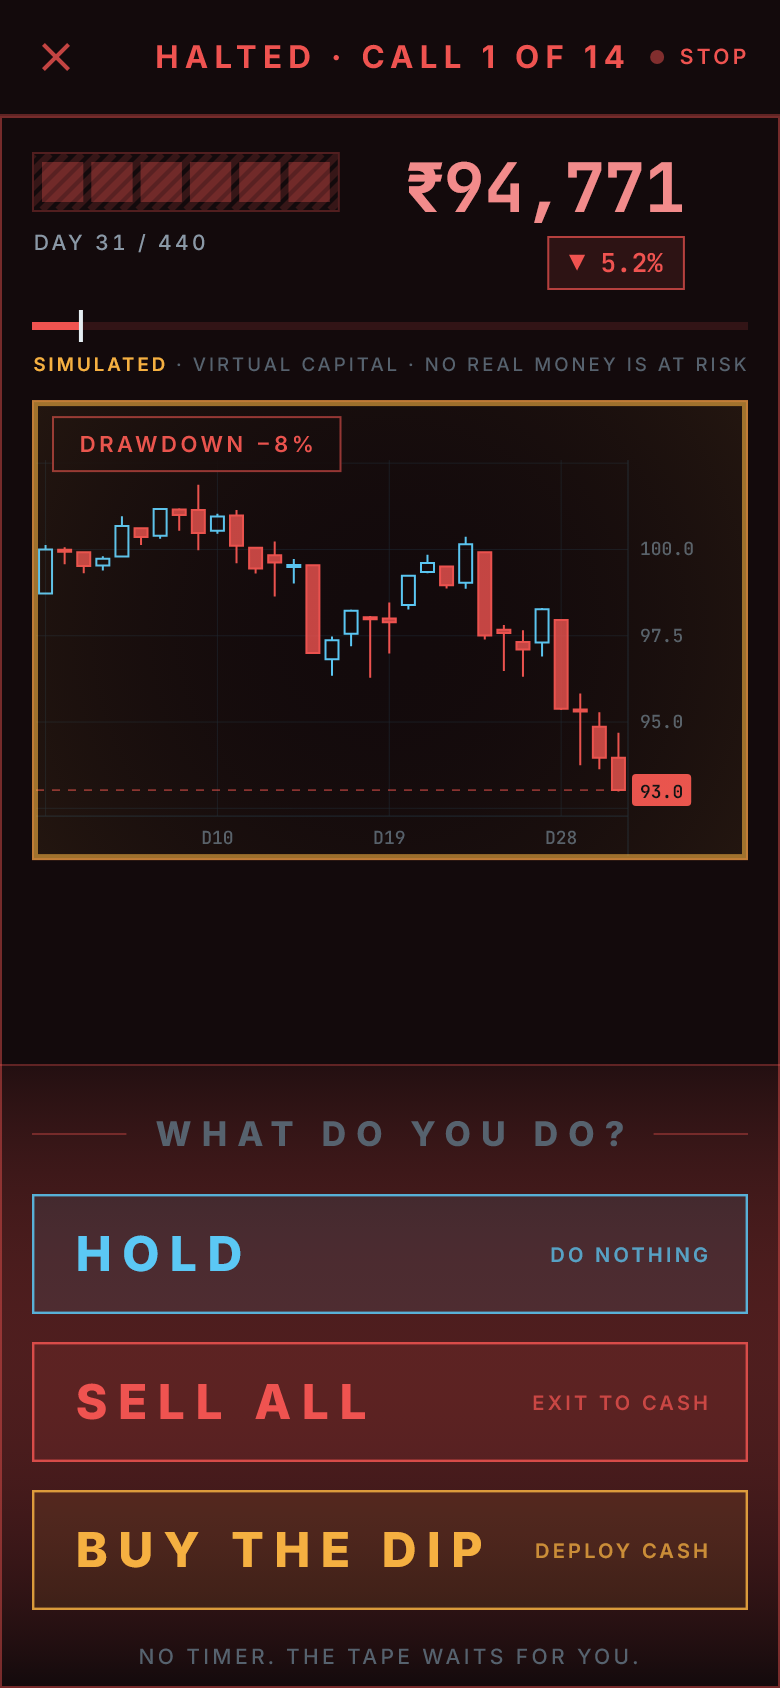
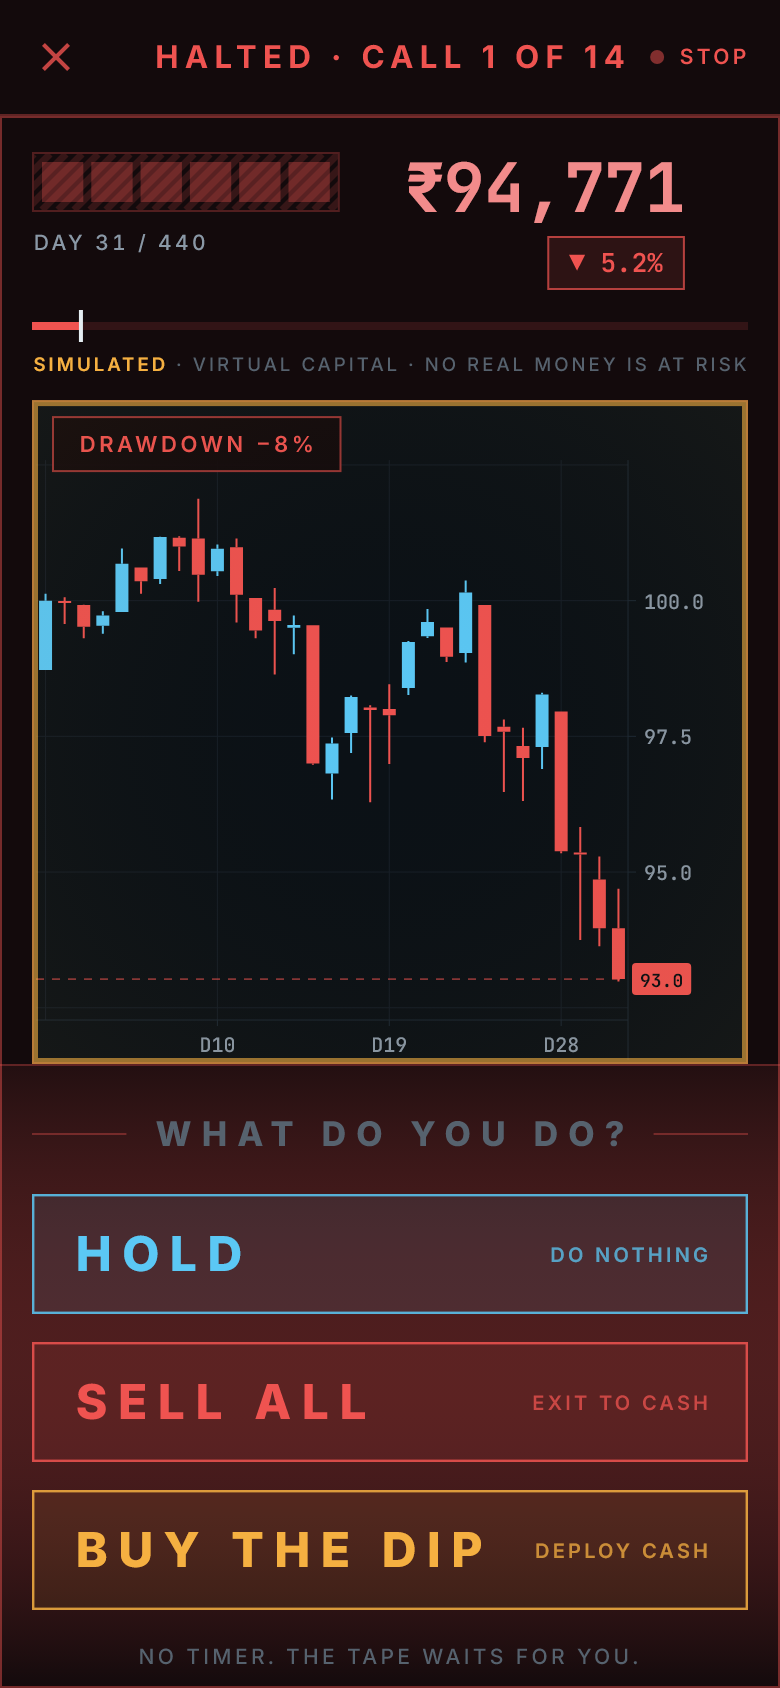
Make the price chart read like a terminal
Four things were wrong with it, and the ugliest was the ground: the chart
had none, so the halted screen's alarm red washed up under the candles and
turned the whole panel maroon. A price panel now carries its own dark
ground whatever the screen behind it is doing, and the halt is signalled
by the frame alone.

Candles are solid both ways with wicks in the body's colour. Hollow
up-bars read as thinner than the down-bars beside them, which made every
rally look less real than the fall next to it.

Gridline density follows the pane height — one line per ~58px, the way a
terminal spaces them — instead of a fixed five. On a full-height pane that
fixed count produced two lonely rules 160px apart. The price scale gained
a tick against its rail, a readable 10pt label, and it now yields its row
to the last-price tag instead of smudging underneath it.

Finally the chart fills the stage. It stopped at 62% of the height, which
left a dead band under it — worst while halted, where there are no
controls at all and the player is reading the low.

flutter analyze clean, 187 tests pass.

Changed region(s): [[0.0308, 0.2773, 0.9538, 0.6469], [0.9538, 0.5237, 0.9846, 0.6161], [0.8308, 0.3081, 0.8615, 0.3697]]

diff --git a/lib/features/chart/painters/chart_base_painter.dart b/lib/features/chart/painters/chart_base_painter.dart
@@ -128,7 +128,7 @@ class ChartBasePainter extends CustomPainter {
     List<int> timeTicks,
   ) {
     final Paint grid = Paint()
-      ..color = AppColors.border.withValues(alpha: 0.55)
+      ..color = AppColors.chartGrid
       ..strokeWidth = 0.5;
 
     for (final double t in priceTicks) {
@@ -205,27 +205,23 @@ class ChartBasePainter extends CustomPainter {
       );
     }
 
-    final Paint upStroke = Paint()
+    // Solid bodies both ways, wicks in the body's own colour — the candle
+    // every trading terminal draws. Hollow up-bars read as thinner than the
+    // down-bars beside them, which made a rally look less real than a fall.
+    final Paint upWick = Paint()
       ..color = AppColors.up
       ..strokeWidth = 1
       ..style = PaintingStyle.stroke;
-    final Paint downStroke = Paint()
+    final Paint downWick = Paint()
       ..color = AppColors.down
       ..strokeWidth = 1
       ..style = PaintingStyle.stroke;
 
-    // Hollow up, solid down — the wireframes' candle. A rising bar is an
-    // outline and a falling one is filled, so a crash reads heavier than the
-    // rallies inside it, which is the asymmetry a crash replay is about.
     canvas
-      ..drawPath(upWicks, upStroke)
-      ..drawPath(downWicks, downStroke)
-      ..drawPath(upBodies, upStroke)
-      ..drawPath(
-        downBodies,
-        Paint()..color = AppColors.down.withValues(alpha: 0.82),
-      )
-      ..drawPath(downBodies, downStroke);
+      ..drawPath(upWicks, upWick)
+      ..drawPath(downWicks, downWick)
+      ..drawPath(upBodies, Paint()..color = AppColors.up)
+      ..drawPath(downBodies, Paint()..color = AppColors.down);
   }
 
   void _paintPricePath(Canvas canvas) {
@@ -603,17 +599,29 @@ class ChartBasePainter extends CustomPainter {
   List<double> _priceTicks() {
     final PriceAxis axis = priceGeometry.axis;
 
+    // One line per ~58px, the way a terminal spaces them, rather than a fixed
+    // five: five lines on a short pane is a grid, and on a full-height pane it
+    // is two lonely rules with 160px of nothing between them.
+    final int target = (priceGeometry.plot.height / 58).round().clamp(3, 9);
+
     if (axis.scale == PriceScale.percent) {
       return <double>[
-        for (final double v
-            in niceTicks(priceGeometry.axisMin, priceGeometry.axisMax))
+        for (final double v in niceTicks(
+          priceGeometry.axisMin,
+          priceGeometry.axisMax,
+          target: target,
+        ))
           axis.toPrice(v),
       ];
     }
 
     final double lo = axis.toPrice(priceGeometry.axisMin);
     final double hi = axis.toPrice(priceGeometry.axisMax);
-    return niceTicks(math.min(lo, hi), math.max(lo, hi));
+    return niceTicks(
+      math.min(lo, hi),
+      math.max(lo, hi),
+      target: target,
+    );
   }
 
   List<int> _timeTicks() {
@@ -637,6 +645,12 @@ class ChartBasePainter extends CustomPainter {
   }
 
   void _paintPriceGutter(Canvas canvas, List<double> ticks) {
+    // The last-price tag owns its row; a tick label under it reads as a
+    // smudge, so that one label is dropped.
+    final double? tagY = showLastPriceLine && rawBars.isNotEmpty
+        ? priceGeometry.yForPrice(rawBars.last.close)
+        : null;
+    // ignore: avoid_print
     canvas.drawLine(
       Offset(priceGeometry.plot.right, 0),
       Offset(priceGeometry.plot.right, layout.size.height),
@@ -645,17 +659,27 @@ class ChartBasePainter extends CustomPainter {
         ..strokeWidth = 0.5,
     );
 
+    final Paint tick = Paint()
+      ..color = AppColors.border
+      ..strokeWidth = 0.5;
+
     for (final double price in ticks) {
       final double y = priceGeometry.yForPrice(price);
       if (y < priceGeometry.plot.top + 8 ||
           y > priceGeometry.plot.bottom - 8) {
         continue;
       }
+      if (tagY != null && (y - tagY).abs() < 11) continue;
+      canvas.drawLine(
+        Offset(priceGeometry.plot.right, y),
+        Offset(priceGeometry.plot.right + 4, y),
+        tick,
+      );
       _text(
         canvas,
         labels.price(price),
-        Offset(priceGeometry.plot.right + 6, y - 6),
-        AppText.mono(size: 9, color: AppColors.textFaint),
+        Offset(priceGeometry.plot.right + 8, y - 6),
+        AppText.mono(size: 10, color: AppColors.textSecondary),
       );
     }
   }
@@ -670,15 +694,24 @@ class ChartBasePainter extends CustomPainter {
         ..strokeWidth = 0.5,
     );
 
+    final Paint tick = Paint()
+      ..color = AppColors.border
+      ..strokeWidth = 0.5;
+
     for (final int i in ticks) {
       if (i < 0 || i >= drawBars.length) continue;
       final double x = priceGeometry.xForIndex(i.toDouble());
       if (x < 12 || x > axis.right - 12) continue;
+      canvas.drawLine(
+        Offset(x, axis.top),
+        Offset(x, axis.top + 3),
+        tick,
+      );
       _text(
         canvas,
         labels.time(drawBars[i].date, i, interval),
-        Offset(x, axis.top + 5),
-        AppText.mono(size: 9, color: AppColors.textFaint),
+        Offset(x, axis.top + 6),
+        AppText.mono(size: 10, color: AppColors.textSecondary),
         centerOn: true,
       );
     }

diff --git a/lib/features/simulator/level/level_screen.dart b/lib/features/simulator/level/level_screen.dart
@@ -186,7 +186,6 @@ class _LevelScreenBodyState extends ConsumerState<_LevelScreenBody> {
                       controller: controller,
                       color: stateColor,
                     ),
-              fillChart: state.isFinished,
               toolbarBand: _toolbarBand,
               transportBand: _transportBand,
             ),
@@ -307,7 +306,6 @@ class _Stage extends StatelessWidget {
     required this.chart,
     required this.toolbar,
     required this.transport,
-    required this.fillChart,
     required this.toolbarBand,
     required this.transportBand,
   });
@@ -315,7 +313,6 @@ class _Stage extends StatelessWidget {
   final Widget chart;
   final Widget? toolbar;
   final Widget? transport;
-  final bool fillChart;
   final double toolbarBand;
   final double transportBand;
 
@@ -326,10 +323,11 @@ class _Stage extends StatelessWidget {
         final double controls =
             (toolbar == null ? 0 : toolbarBand) +
             (transport == null ? 0 : transportBand);
-        final double free = math.max(0, box.maxHeight - controls);
-        final double chartHeight = fillChart
-            ? free
-            : math.min(free, math.max(free * 0.62, 230));
+        // The chart takes every pixel the controls do not. It used to stop at
+        // 62% of the stage, which left a dead band under it — worst while
+        // halted, where there are no controls at all and the player is
+        // reading the low.
+        final double chartHeight = math.max(0, box.maxHeight - controls);
 
         return Column(
           children: <Widget>[
@@ -394,9 +392,10 @@ class _ChartFrame extends StatelessWidget {
       padding: const EdgeInsets.symmetric(horizontal: AppSpacing.md),
       child: DecoratedBox(
         decoration: BoxDecoration(
+          color: AppColors.chartSurface,
           border: Border.all(
             color: halted
-                ? AppColors.down.withValues(alpha: 0.4)
+                ? AppColors.down.withValues(alpha: 0.35)
                 : AppColors.border,
           ),
         ),

diff --git a/lib/app/theme.dart b/lib/app/theme.dart
@@ -44,6 +44,15 @@ abstract final class AppColors {
   /// Panel wash for a card drawn *over* content, where translucency is right.
   static const Color panelWash = Color(0x14F2712C);
 
+  /// The chart's own ground. A price panel keeps this whatever the screen
+  /// behind it is doing — the halted state tints its frame, never the space
+  /// under the candles, because a red wash there hides the bars.
+  static const Color chartSurface = Color(0xFF0B1116);
+
+  /// Chart gridlines. Below the hairline rails: present when looked for,
+  /// invisible when reading the price.
+  static const Color chartGrid = Color(0xFF161E27);
+
   /// Hairline rails. Steel, cooler than the ground.
   static const Color border = Color(0xFF1C2833);
   static const Color borderStrong = Color(0xFF2B3A48);
